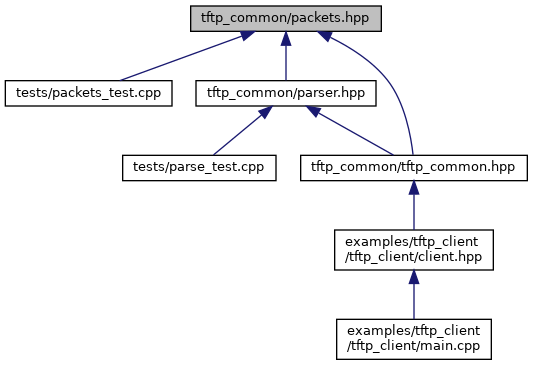
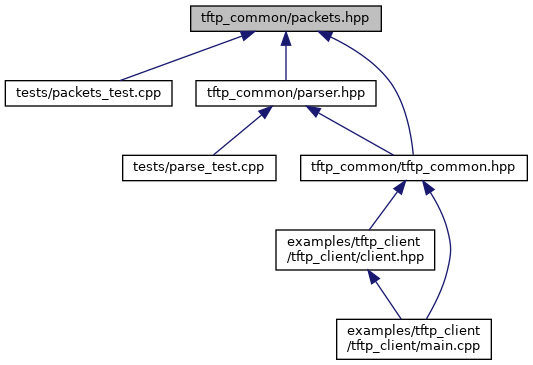
Deploying to gh-pages from @ eoan-ermine/tftp_common@3932316b55c2b57563e69bcba3314c9459bc385a 🚀

diff --git a/main_8cpp.html b/main_8cpp.html
@@ -76,6 +76,7 @@ $(function() {
 <div class="contents">
 <div class="textblock"><code>#include &lt;boost/asio.hpp&gt;</code><br />
 <code>#include &lt;boost/program_options.hpp&gt;</code><br />
+<code>#include &lt;<a class="el" href="tftp__common_8hpp_source.html">tftp_common/tftp_common.hpp</a>&gt;</code><br />
 <code>#include &quot;<a class="el" href="client_8hpp_source.html">client.hpp</a>&quot;</code><br />
 <code>#include &lt;cstdlib&gt;</code><br />
 <code>#include &lt;iostream&gt;</code><br />
@@ -85,22 +86,22 @@ Include dependency graph for main.cpp:</div>
 <div class="dyncontent">
 <div class="center"><img src="main_8cpp__incl.png" border="0" usemap="#aexamples_2tftp__client_2tftp__client_2main_8cpp" alt=""/></div>
 <map name="aexamples_2tftp__client_2tftp__client_2main_8cpp" id="aexamples_2tftp__client_2tftp__client_2main_8cpp">
-<area shape="rect" title=" " alt="" coords="563,5,717,47"/>
-<area shape="rect" title=" " alt="" coords="5,169,123,196"/>
-<area shape="rect" title=" " alt="" coords="792,95,992,121"/>
-<area shape="rect" href="client_8hpp.html" title=" " alt="" coords="366,95,453,121"/>
-<area shape="rect" title=" " alt="" coords="677,393,774,420"/>
-<area shape="rect" title=" " alt="" coords="547,169,613,196"/>
-<area shape="rect" title=" " alt="" coords="637,169,717,196"/>
-<area shape="rect" href="tftp__common_8hpp.html" title=" " alt="" coords="296,169,523,196"/>
-<area shape="rect" title=" " alt="" coords="157,393,216,420"/>
-<area shape="rect" title=" " alt="" coords="198,169,271,196"/>
-<area shape="rect" href="packets_8hpp.html" title=" " alt="" coords="357,319,457,345"/>
-<area shape="rect" href="parser_8hpp.html" title=" " alt="" coords="397,244,488,271"/>
-<area shape="rect" title=" " alt="" coords="437,393,529,420"/>
-<area shape="rect" title=" " alt="" coords="553,393,623,420"/>
-<area shape="rect" title=" " alt="" coords="259,393,325,420"/>
-<area shape="rect" title=" " alt="" coords="350,393,413,420"/>
+<area shape="rect" title=" " alt="" coords="297,5,451,47"/>
+<area shape="rect" title=" " alt="" coords="55,169,173,196"/>
+<area shape="rect" title=" " alt="" coords="86,95,286,121"/>
+<area shape="rect" href="tftp__common_8hpp.html" title=" " alt="" coords="197,169,423,196"/>
+<area shape="rect" title=" " alt="" coords="5,393,103,420"/>
+<area shape="rect" href="client_8hpp.html" title=" " alt="" coords="441,95,528,121"/>
+<area shape="rect" title=" " alt="" coords="597,169,663,196"/>
+<area shape="rect" title=" " alt="" coords="687,169,767,196"/>
+<area shape="rect" href="packets_8hpp.html" title=" " alt="" coords="209,319,309,345"/>
+<area shape="rect" href="parser_8hpp.html" title=" " alt="" coords="275,244,366,271"/>
+<area shape="rect" title=" " alt="" coords="308,393,400,420"/>
+<area shape="rect" title=" " alt="" coords="425,393,494,420"/>
+<area shape="rect" title=" " alt="" coords="130,393,197,420"/>
+<area shape="rect" title=" " alt="" coords="525,393,583,420"/>
+<area shape="rect" title=" " alt="" coords="221,393,284,420"/>
+<area shape="rect" title=" " alt="" coords="448,169,521,196"/>
 </map>
 </div>
 </div><table class="memberdecls">

diff --git a/dir_000001_000004.html b/dir_000001_000004.html
@@ -66,7 +66,7 @@ $(function() {
 </div>
 </div><!-- top -->
 <div class="contents">
-<h3>tftp_client &rarr; tftp_common Relation</h3><table class="dirtab"><tr class="dirtab"><th class="dirtab">File in examples/tftp_client</th><th class="dirtab">Includes file in tftp_common</th></tr><tr class="dirtab"><td class="dirtab"><a class="el" href="dir_5a333e19b1cc2f5d5fb6dae292ca1601.html">tftp_client</a>&#160;/&#160;<a class="el" href="client_8hpp.html">client.hpp</a></td><td class="dirtab"><a class="el" href="tftp__common_8hpp.html">tftp_common.hpp</a></td></tr></table></div><!-- contents -->
+<h3>tftp_client &rarr; tftp_common Relation</h3><table class="dirtab"><tr class="dirtab"><th class="dirtab">File in examples/tftp_client</th><th class="dirtab">Includes file in tftp_common</th></tr><tr class="dirtab"><td class="dirtab"><a class="el" href="dir_5a333e19b1cc2f5d5fb6dae292ca1601.html">tftp_client</a>&#160;/&#160;<a class="el" href="client_8hpp.html">client.hpp</a></td><td class="dirtab"><a class="el" href="tftp__common_8hpp.html">tftp_common.hpp</a></td></tr><tr class="dirtab"><td class="dirtab"><a class="el" href="dir_5a333e19b1cc2f5d5fb6dae292ca1601.html">tftp_client</a>&#160;/&#160;<a class="el" href="main_8cpp.html">main.cpp</a></td><td class="dirtab"><a class="el" href="tftp__common_8hpp.html">tftp_common.hpp</a></td></tr></table></div><!-- contents -->
 <!-- start footer part -->
 <hr class="footer"/><address class="footer"><small>
 Generated by&#160;<a href="https://www.doxygen.org/index.html"><img class="footer" src="doxygen.svg" width="104" height="31" alt="doxygen"/></a> 1.9.1

diff --git a/dir_000002_000004.html b/dir_000002_000004.html
@@ -66,7 +66,7 @@ $(function() {
 </div>
 </div><!-- top -->
 <div class="contents">
-<h3>tftp_client &rarr; tftp_common Relation</h3><table class="dirtab"><tr class="dirtab"><th class="dirtab">File in examples/tftp_client/tftp_client</th><th class="dirtab">Includes file in tftp_common</th></tr><tr class="dirtab"><td class="dirtab"><a class="el" href="client_8hpp.html">client.hpp</a></td><td class="dirtab"><a class="el" href="tftp__common_8hpp.html">tftp_common.hpp</a></td></tr></table></div><!-- contents -->
+<h3>tftp_client &rarr; tftp_common Relation</h3><table class="dirtab"><tr class="dirtab"><th class="dirtab">File in examples/tftp_client/tftp_client</th><th class="dirtab">Includes file in tftp_common</th></tr><tr class="dirtab"><td class="dirtab"><a class="el" href="client_8hpp.html">client.hpp</a></td><td class="dirtab"><a class="el" href="tftp__common_8hpp.html">tftp_common.hpp</a></td></tr><tr class="dirtab"><td class="dirtab"><a class="el" href="main_8cpp.html">main.cpp</a></td><td class="dirtab"><a class="el" href="tftp__common_8hpp.html">tftp_common.hpp</a></td></tr></table></div><!-- contents -->
 <!-- start footer part -->
 <hr class="footer"/><address class="footer"><small>
 Generated by&#160;<a href="https://www.doxygen.org/index.html"><img class="footer" src="doxygen.svg" width="104" height="31" alt="doxygen"/></a> 1.9.1

diff --git a/tftp__common_8hpp.html b/tftp__common_8hpp.html
@@ -93,9 +93,9 @@ This graph shows which files directly or indirectly include this file:</div>
 <div class="dyncontent">
 <div class="center"><img src="tftp__common_8hpp__dep__incl.png" border="0" usemap="#atftp__common_2tftp__common_8hppdep" alt=""/></div>
 <map name="atftp__common_2tftp__common_8hppdep" id="atftp__common_2tftp__common_8hppdep">
-<area shape="rect" title=" " alt="" coords="5,5,232,32"/>
-<area shape="rect" href="client_8hpp.html" title=" " alt="" coords="39,80,198,121"/>
-<area shape="rect" href="main_8cpp.html" title=" " alt="" coords="41,169,196,211"/>
+<area shape="rect" title=" " alt="" coords="30,5,257,32"/>
+<area shape="rect" href="client_8hpp.html" title=" " alt="" coords="5,80,164,121"/>
+<area shape="rect" href="main_8cpp.html" title=" " alt="" coords="66,169,221,211"/>
 </map>
 </div>
 </div>

diff --git a/dir_2c72aced42970251db61a956e873b5de.html b/dir_2c72aced42970251db61a956e873b5de.html
@@ -77,7 +77,7 @@ Directory dependency graph for tftp_client:</div>
 <map name="adir__2c72aced42970251db61a956e873b5de__dep" id="adir__2c72aced42970251db61a956e873b5de__dep">
 <area shape="rect" href="dir_5a333e19b1cc2f5d5fb6dae292ca1601.html" title="tftp_client" alt="" coords="38,63,125,111"/>
 <area shape="rect" href="dir_08e0715417ce0e866f8e0838f603d3e9.html" title="tftp_common" alt="" coords="27,159,135,207"/>
-<area shape="rect" href="dir_000002_000004.html" title="1" alt="" coords="85,133,94,148"/>
+<area shape="rect" href="dir_000002_000004.html" title="2" alt="" coords="85,133,94,148"/>
 <area shape="rect" href="dir_2c72aced42970251db61a956e873b5de.html" alt="" coords="27,52,247,121"/>
 <area shape="rect" href="dir_d28a4824dc47e487b107a5db32ef43c4.html" title="examples" alt="" coords="16,16,257,132"/>
 </map>

diff --git a/dir_5a333e19b1cc2f5d5fb6dae292ca1601.html b/dir_5a333e19b1cc2f5d5fb6dae292ca1601.html
@@ -77,7 +77,7 @@ Directory dependency graph for tftp_client:</div>
 <map name="adir__5a333e19b1cc2f5d5fb6dae292ca1601__dep" id="adir__5a333e19b1cc2f5d5fb6dae292ca1601__dep">
 <area shape="rect" href="dir_5a333e19b1cc2f5d5fb6dae292ca1601.html" title="tftp_client" alt="" coords="27,52,114,100"/>
 <area shape="rect" href="dir_08e0715417ce0e866f8e0838f603d3e9.html" title="tftp_common" alt="" coords="17,148,125,196"/>
-<area shape="rect" href="dir_000002_000004.html" title="1" alt="" coords="74,122,84,137"/>
+<area shape="rect" href="dir_000002_000004.html" title="2" alt="" coords="74,122,84,137"/>
 <area shape="rect" href="dir_2c72aced42970251db61a956e873b5de.html" title="tftp_client" alt="" coords="16,16,125,111"/>
 </map>
 </div>

diff --git a/dir_d28a4824dc47e487b107a5db32ef43c4.html b/dir_d28a4824dc47e487b107a5db32ef43c4.html
@@ -77,7 +77,7 @@ Directory dependency graph for examples:</div>
 <map name="adir__d28a4824dc47e487b107a5db32ef43c4__dep" id="adir__d28a4824dc47e487b107a5db32ef43c4__dep">
 <area shape="rect" href="dir_2c72aced42970251db61a956e873b5de.html" title="tftp_client" alt="" coords="27,27,114,75"/>
 <area shape="rect" href="dir_08e0715417ce0e866f8e0838f603d3e9.html" title="tftp_common" alt="" coords="17,123,125,171"/>
-<area shape="rect" href="dir_000001_000004.html" title="1" alt="" coords="74,97,84,112"/>
+<area shape="rect" href="dir_000001_000004.html" title="2" alt="" coords="74,97,84,112"/>
 <area shape="rect" href="dir_d28a4824dc47e487b107a5db32ef43c4.html" alt="" coords="16,16,236,85"/>
 </map>
 </div>

diff --git a/packets_8hpp.html b/packets_8hpp.html
@@ -104,7 +104,7 @@ This graph shows which files directly or indirectly include this file:</div>
 <area shape="rect" href="parser_8hpp.html" title=" " alt="" coords="196,80,376,107"/>
 <area shape="rect" href="tftp__common_8hpp.html" title=" " alt="" coords="301,155,527,181"/>
 <area shape="rect" href="parse__test_8cpp.html" title=" " alt="" coords="123,155,276,181"/>
-<area shape="rect" href="client_8hpp.html" title=" " alt="" coords="335,229,493,271"/>
+<area shape="rect" href="client_8hpp.html" title=" " alt="" coords="276,229,435,271"/>
 <area shape="rect" href="main_8cpp.html" title=" " alt="" coords="337,319,491,360"/>
 </map>
 </div>

diff --git a/parser_8hpp.html b/parser_8hpp.html
@@ -98,7 +98,7 @@ This graph shows which files directly or indirectly include this file:</div>
 <area shape="rect" title=" " alt="" coords="99,5,279,32"/>
 <area shape="rect" href="parse__test_8cpp.html" title=" " alt="" coords="5,80,159,107"/>
 <area shape="rect" href="tftp__common_8hpp.html" title=" " alt="" coords="183,80,410,107"/>
-<area shape="rect" href="client_8hpp.html" title=" " alt="" coords="217,155,376,196"/>
+<area shape="rect" href="client_8hpp.html" title=" " alt="" coords="159,155,317,196"/>
 <area shape="rect" href="main_8cpp.html" title=" " alt="" coords="219,244,374,285"/>
 </map>
 </div>
